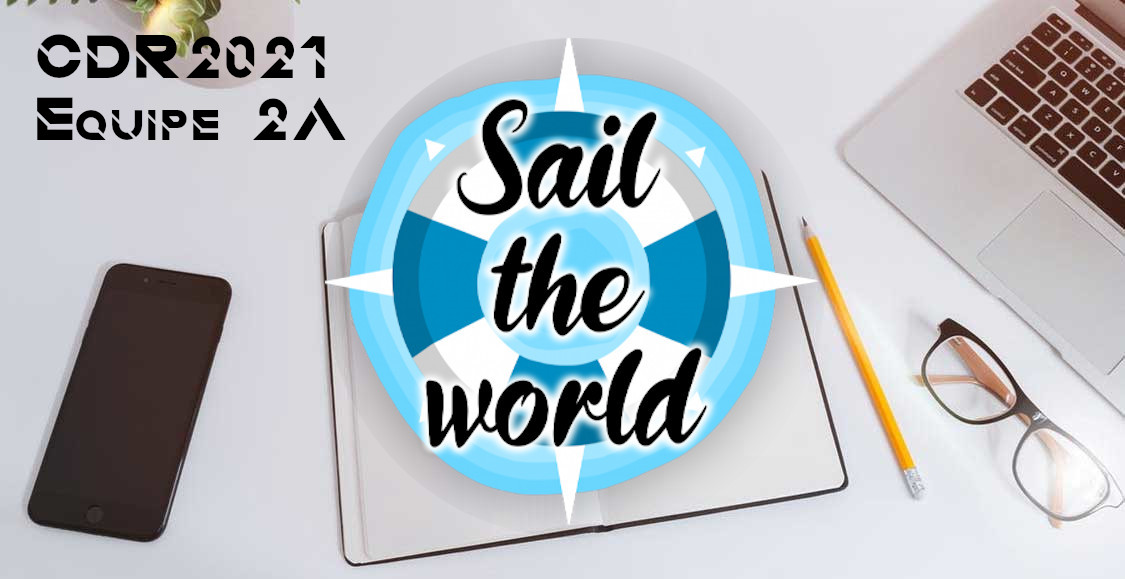
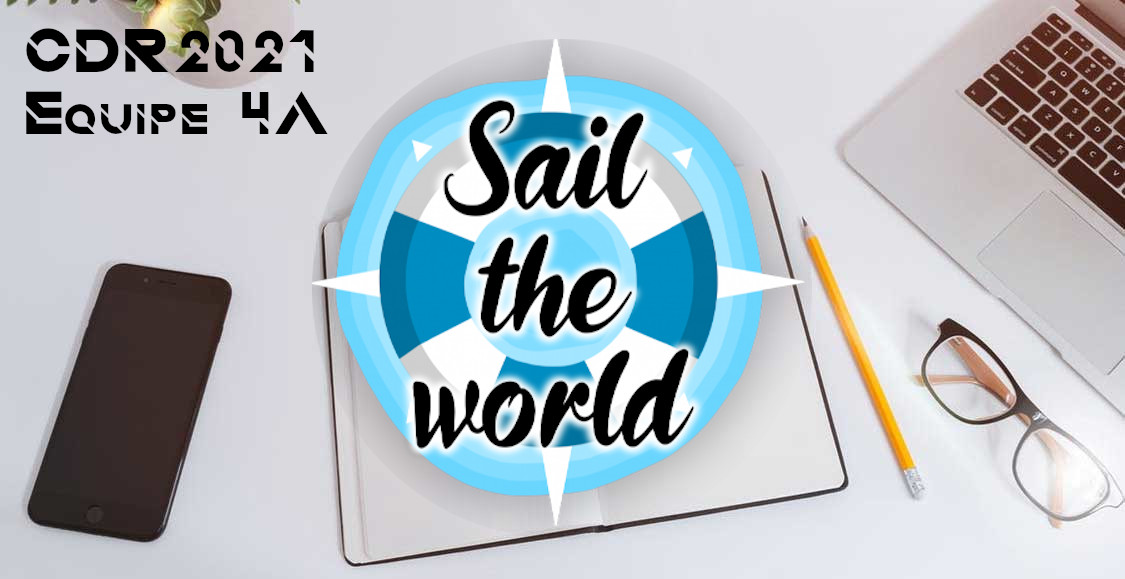
Update from https://github.com/eirbot/SiteEirbot/commit/29433c6dcb3647f3c9297ab6e25541348c8e3daa

Changed region(s): [[0.28, 0.0622, 0.7156, 0.9016], [0.0, 0.0311, 0.3111, 0.2487]]

diff --git a/project/index.html b/project/index.html
@@ -142,8 +142,6 @@
               
               
               
-              
-              
               <label class="btn btn-sm btn-primary">
                 <input type="radio" name="shuffle-filter" value="coupe">Coupe
               </label>
@@ -194,23 +192,12 @@
             </div>
             
             <div class="col-md-4 portfolio-item shuffle-item" data-groups="[&quot;coupe&quot;]">
-              <img src="/images/portfolio/w6.jpg" alt="Coupe de France de robotique 2021 EIRBOT">
+              <img src="/images/portfolio/w6.jpg" alt="Coupe de France de robotique 2021 Pokibot">
               <div class="portfolio-hover">
                 <div class="portfolio-content">
                   <a href="/images/portfolio/w6.jpg" class="portfolio-popup"><i class="icon ion-search"></i></a>
-                  <a class="h3" href="https://eirbot.github.io/project/rio-furniture-7/">Coupe de France de robotique 2021 EIRBOT</a>
-                  <p>Édition 2021 - 2A</p>
-                </div>
-              </div>
-            </div>
-            
-            <div class="col-md-4 portfolio-item shuffle-item" data-groups="[&quot;coupe&quot;]">
-              <img src="/images/portfolio/w4.jpg" alt="Coupe de France de robotique 2021 GAL&#39;EIRB">
-              <div class="portfolio-hover">
-                <div class="portfolio-content">
-                  <a href="/images/portfolio/w4.jpg" class="portfolio-popup"><i class="icon ion-search"></i></a>
-                  <a class="h3" href="https://eirbot.github.io/project/rio-furniture-5/">Coupe de France de robotique 2021 GAL&#39;EIRB</a>
-                  <p>Édition 2021 - 1A</p>
+                  <a class="h3" href="https://eirbot.github.io/project/rio-furniture-7/">Coupe de France de robotique 2021 Pokibot</a>
+                  <p>Édition 2021 - 4A</p>
                 </div>
               </div>
             </div>

diff --git a/project/rio-furniture-7/index.html b/project/rio-furniture-7/index.html
@@ -1,12 +1,12 @@
 <!DOCTYPE html>
 <html lang="en-Us"><head>
   <meta charset="utf-8">
-  <title>Coupe de France de robotique 2021 EIRBOT</title>
+  <title>Coupe de France de robotique 2021 Pokibot</title>
 
   <!-- mobile responsive meta -->
   <meta name="viewport" content="width=device-width, initial-scale=1">
   <meta name="viewport" content="width=device-width, initial-scale=1, maximum-scale=1">
-  <meta name="description" content="Édition 2021 - 2A">
+  <meta name="description" content="Édition 2021 - 4A">
   <meta name="author" content="Eirbot">
   <meta name="generator" content="Hugo 0.74.3" />
 
@@ -106,8 +106,8 @@
     <div class="row">
       <div class="col-md-12">
         <div class="block">
-          <h1>Coupe de France de robotique 2021 EIRBOT</h1>
-          <p>Édition 2021 - 2A</p>
+          <h1>Coupe de France de robotique 2021 Pokibot</h1>
+          <p>Édition 2021 - 4A</p>
         </div>
       </div>
     </div>
@@ -131,7 +131,7 @@
             
             <li><span>Lieu :</span> <strong>La roche sur yon</strong></li>
             
-            <li><span>Date :</span> <strong>12 au 15 mai 2021</strong></li>
+            <li><span>Date :</span> <strong>07 au 11 juillet 2021</strong></li>
             
             <li><span>Résultats :</span> <strong></strong></li>
             
